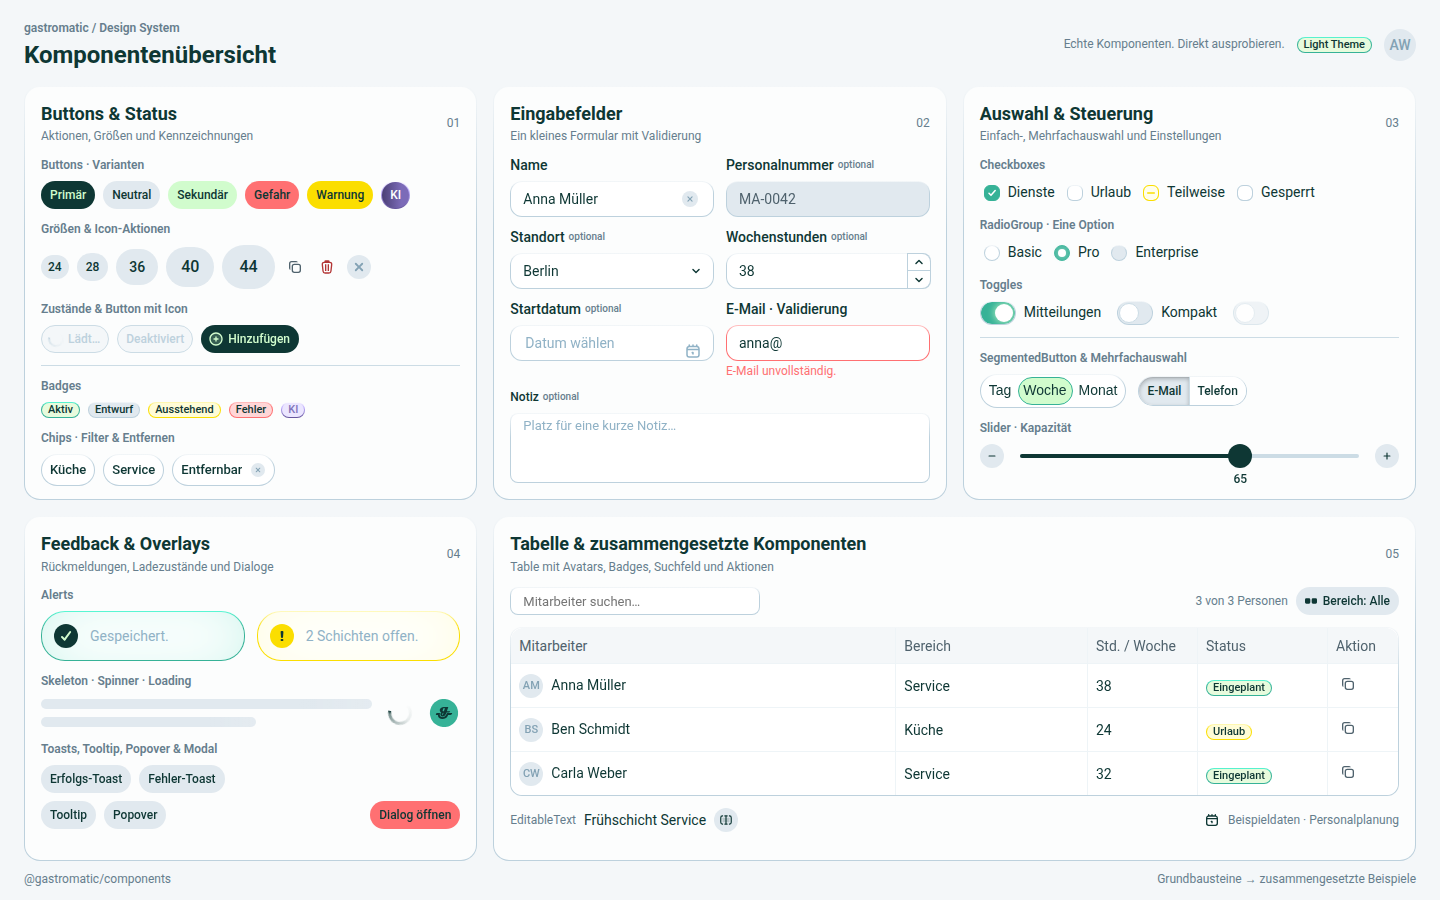
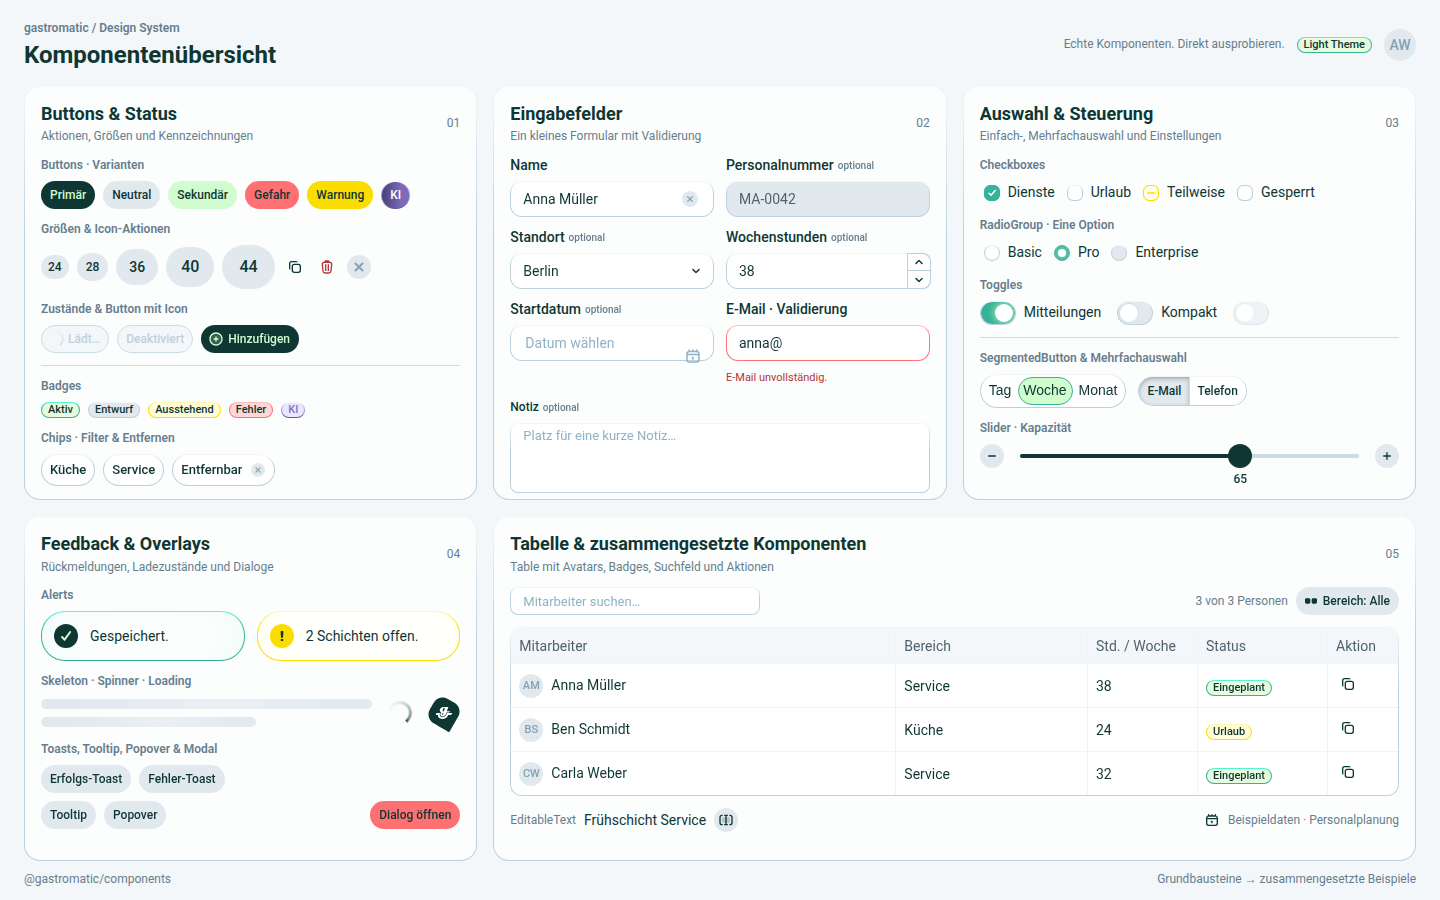
chore: update reference app dependencies and refresh the screenshot

diff --git a/html-mockups/reference-app/src/showcase/Showcase.jsx b/html-mockups/reference-app/src/showcase/Showcase.jsx
@@ -103,7 +103,7 @@ const GroupContent = styled(Stack)`
   }
 `;
 
-const GroupTitle = styled(Headline)`
+const GroupTitle = styled.h3`
   font-size: 12px;
   line-height: 16px;
   font-weight: 600;
@@ -174,7 +174,7 @@ function Row({ children, ...props }) {
 function Group({ title, children }) {
   return (
     <GroupContent gap={8}>
-      <GroupTitle level={3}>{title}</GroupTitle>
+      <GroupTitle>{title}</GroupTitle>
       {children}
     </GroupContent>
   );
